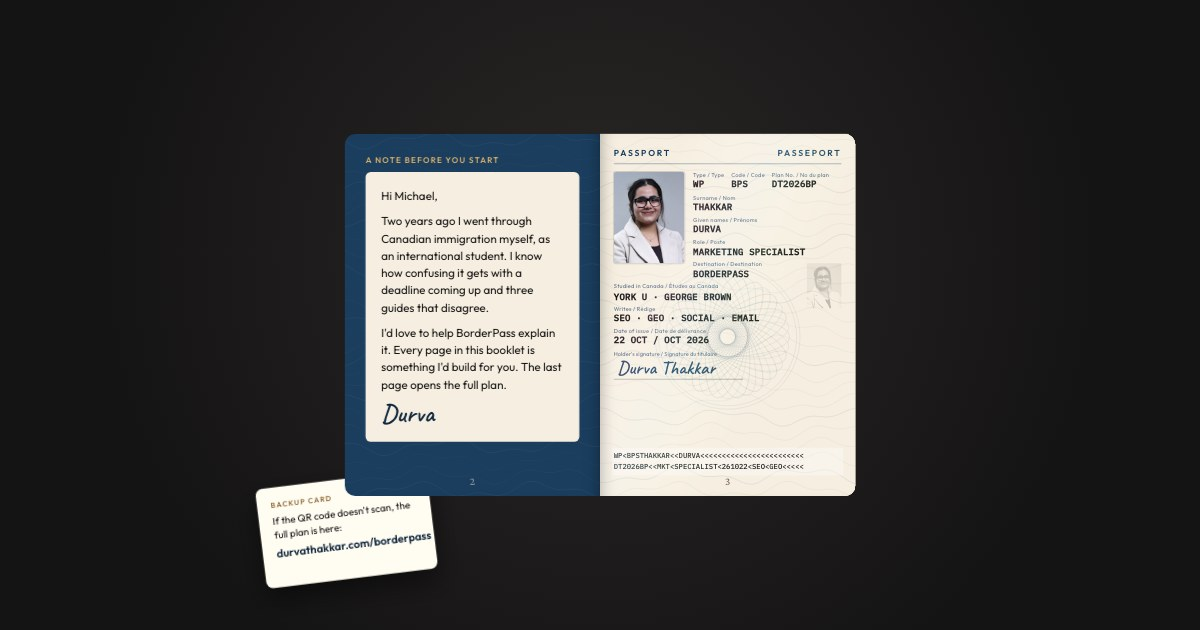
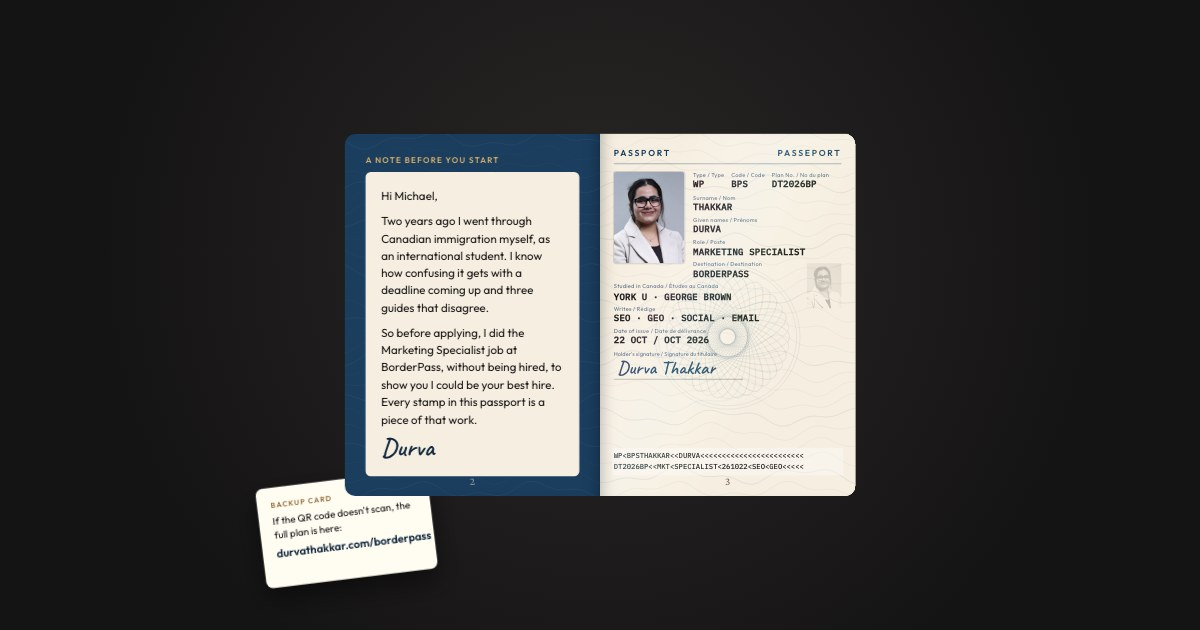
BorderPass passport: value-led arrival page, Limina-style note, last page invites a look at the first 90 days

Changed region(s): [[0.2775, 0.5127, 0.4933, 0.7841]]

diff --git a/borderpass/passport/index.html b/borderpass/passport/index.html
@@ -9,13 +9,13 @@
 <meta property="og:description" content="Open the envelope, flip the pages, collect the stamps. By Durva Thakkar.">
 <meta property="og:type" content="website">
 <meta property="og:url" content="https://durvathakkar.com/borderpass/passport/">
-<meta property="og:image" content="https://durvathakkar.com/borderpass/passport/share.jpg?v=3">
+<meta property="og:image" content="https://durvathakkar.com/borderpass/passport/share.jpg?v=4">
 <meta property="og:image:width" content="1200">
 <meta property="og:image:height" content="630">
 <meta name="twitter:card" content="summary_large_image">
 <meta name="twitter:title" content="A work plan for BorderPass, in a passport">
 <meta name="twitter:description" content="Open the envelope, flip the pages, collect the stamps. By Durva Thakkar.">
-<meta name="twitter:image" content="https://durvathakkar.com/borderpass/passport/share.jpg?v=3">
+<meta name="twitter:image" content="https://durvathakkar.com/borderpass/passport/share.jpg?v=4">
 <meta name="robots" content="noindex">
 <link rel="preconnect" href="https://fonts.googleapis.com"><link rel="preconnect" href="https://fonts.gstatic.com" crossorigin>
 <link href="https://fonts.googleapis.com/css2?family=Crimson+Pro:ital,wght@0,400;0,500;0,600;1,400&family=Outfit:wght@400;500;600;700&family=Caveat:wght@600&family=IBM+Plex+Mono:wght@500&display=swap" rel="stylesheet">
@@ -109,13 +109,13 @@ h3.pt{font:500 23px "Crimson Pro";line-height:1.1;margin:4px 0 12px}
 .st.oval{width:200px;height:110px;border-radius:50%}
 .st.tick{width:150px;height:118px;border-radius:22px}
 .ink{filter:url(#rough)}
-.appr .big{position:absolute;left:18px;right:18px;top:80px;height:112px;display:flex;flex-direction:column;align-items:center;justify-content:center;border:4px double var(--green);color:var(--green);border-radius:8px;opacity:0;transform:scale(2.4) rotate(-7deg);transition:transform .3s cubic-bezier(.3,1.6,.5,1),opacity .15s;mix-blend-mode:multiply}
+.appr .big{position:absolute;left:22px;right:22px;top:70px;height:96px;display:flex;flex-direction:column;align-items:center;justify-content:center;border:4px double var(--green);color:var(--green);border-radius:8px;opacity:0;transform:scale(2.4) rotate(-7deg);transition:transform .3s cubic-bezier(.3,1.6,.5,1),opacity .15s;mix-blend-mode:multiply}
 .appr.stamped .big{opacity:.92;transform:scale(1) rotate(-7deg)}
-.appr .big b{font:700 30px "Outfit";letter-spacing:.12em}
+.appr .big b{font:700 26px "Outfit";letter-spacing:.12em}
 .appr .big span{font:600 10px "Outfit";letter-spacing:.2em}
-.appr .qrw{position:absolute;left:20px;right:20px;bottom:36px;display:flex;gap:12px;align-items:center;opacity:0;transition:opacity .6s .5s}
+.appr .qrw{position:absolute;left:20px;right:20px;bottom:30px;display:flex;gap:12px;align-items:center;opacity:0;transition:opacity .6s .5s}
 .appr.stamped .qrw{opacity:1}
-.appr .qr{width:96px;height:96px;background:#fff;padding:7px;border-radius:6px;flex-shrink:0}
+.appr .qr{width:86px;height:86px;background:#fff;padding:7px;border-radius:6px;flex-shrink:0}
 .appr .qr svg{width:100%;height:100%;display:block}
 .appr .qrw>div:last-child{min-width:0;flex:1}.appr .qrw p{font-size:11.5px;line-height:1.4}
 .appr .url{font:600 11.5px "Outfit";color:var(--navy);text-decoration:underline;text-underline-offset:3px;position:relative;cursor:pointer}
@@ -206,6 +206,7 @@ body.share .top,body.share .ctrl,body.share .hint{display:none}
 .env .trk .no{font:500 9px "IBM Plex Mono",monospace;letter-spacing:.12em;text-align:center}
 .env .win .cv span{margin-top:6px}
 .env .addr-only{position:absolute;left:270px;top:352px;z-index:6;font:700 8.5px "Outfit";letter-spacing:.16em;color:#b3262e;opacity:.85}
+.appr .fin{position:absolute!important;left:20px;right:20px;top:190px;font-size:11.5px;line-height:1.45;opacity:0;transition:opacity .6s .4s}.appr.stamped .fin{opacity:1}
 </style>
 </head>
 <body>
@@ -231,14 +232,13 @@ body.share .top,body.share .ctrl,body.share .hint{display:none}
     <div class="leaf" data-i="0">
       <div class="face fr cover"><div class="cv-top">BORDERPASS</div><div class="cv-top2">MARKETING</div><svg class="emb" viewBox="0 0 120 120" width="150" height="150"><circle cx="60" cy="60" r="30" fill="none" stroke="#d3ac6a" stroke-width="1.6"/><ellipse cx="60" cy="60" rx="10" ry="30" fill="none" stroke="#d3ac6a" stroke-width="1"/><ellipse cx="60" cy="60" rx="20" ry="30" fill="none" stroke="#d3ac6a" stroke-width="1"/><line x1="60" y1="30" x2="60" y2="90" stroke="#d3ac6a" stroke-width="1"/><line x1="34" y1="45" x2="86" y2="45" stroke="#d3ac6a" stroke-width="1"/><line x1="30" y1="60" x2="90" y2="60" stroke="#d3ac6a" stroke-width="1"/><line x1="34" y1="75" x2="86" y2="75" stroke="#d3ac6a" stroke-width="1"/><ellipse cx="45.6" cy="99.5" rx="3.2" ry="7" transform="rotate(20 45.6 99.5)" fill="#d3ac6a"/><ellipse cx="34.7" cy="93.5" rx="3.2" ry="7" transform="rotate(37 34.7 93.5)" fill="#d3ac6a"/><ellipse cx="26.0" cy="84.7" rx="3.2" ry="7" transform="rotate(54 26.0 84.7)" fill="#d3ac6a"/><ellipse cx="20.3" cy="73.7" rx="3.2" ry="7" transform="rotate(71 20.3 73.7)" fill="#d3ac6a"/><ellipse cx="18.0" cy="61.5" rx="3.2" ry="7" transform="rotate(88 18.0 61.5)" fill="#d3ac6a"/><ellipse cx="19.4" cy="49.1" rx="3.2" ry="7" transform="rotate(105 19.4 49.1)" fill="#d3ac6a"/><ellipse cx="24.4" cy="37.7" rx="3.2" ry="7" transform="rotate(122 24.4 37.7)" fill="#d3ac6a"/><ellipse cx="32.4" cy="28.3" rx="3.2" ry="7" transform="rotate(139 32.4 28.3)" fill="#d3ac6a"/><ellipse cx="42.9" cy="21.6" rx="3.2" ry="7" transform="rotate(156 42.9 21.6)" fill="#d3ac6a"/><ellipse cx="74.4" cy="99.5" rx="3.2" ry="7" transform="rotate(160 74.4 99.5)" fill="#d3ac6a"/><ellipse cx="85.3" cy="93.5" rx="3.2" ry="7" transform="rotate(143 85.3 93.5)" fill="#d3ac6a"/><ellipse cx="94.0" cy="84.7" rx="3.2" ry="7" transform="rotate(126 94.0 84.7)" fill="#d3ac6a"/><ellipse cx="99.7" cy="73.7" rx="3.2" ry="7" transform="rotate(109 99.7 73.7)" fill="#d3ac6a"/><ellipse cx="102.0" cy="61.5" rx="3.2" ry="7" transform="rotate(92 102.0 61.5)" fill="#d3ac6a"/><ellipse cx="100.6" cy="49.1" rx="3.2" ry="7" transform="rotate(75 100.6 49.1)" fill="#d3ac6a"/><ellipse cx="95.6" cy="37.7" rx="3.2" ry="7" transform="rotate(58 95.6 37.7)" fill="#d3ac6a"/><ellipse cx="87.6" cy="28.3" rx="3.2" ry="7" transform="rotate(41 87.6 28.3)" fill="#d3ac6a"/><ellipse cx="77.1" cy="21.6" rx="3.2" ry="7" transform="rotate(24 77.1 21.6)" fill="#d3ac6a"/><path d="M46 108 Q60 100 74 108" fill="none" stroke="#d3ac6a" stroke-width="1.6"/><polygon points="60.0,9.0 61.8,13.6 66.7,13.8 62.9,16.9 64.1,21.7 60.0,19.0 55.9,21.7 57.1,16.9 53.3,13.8 58.2,13.6" fill="#d3ac6a"/></svg><div class="cv-pp">PASSPORT</div><div class="cv-pp2">PASSEPORT</div><div class="chip"></div></div>
       <div class="face bk pg inside"><div class="k" style="color:var(--gold)">A note before you start</div>
-        <div class="note"><p>Hi Michael,</p><p>Two years ago I went through Canadian immigration myself, as an international student. I know how confusing it gets with a deadline coming up and three guides that disagree.</p><p>I'd love to help BorderPass explain it. Every page in this booklet is something I'd build for you. The last page opens the full plan.</p><div class="sig">Durva</div></div>
+        <div class="note"><p>Hi Michael,</p><p>Two years ago I went through Canadian immigration myself, as an international student. I know how confusing it gets with a deadline coming up and three guides that disagree.</p><p>So before applying, I did the Marketing Specialist job at BorderPass, without being hired, to show you I could be your best hire. Every stamp in this passport is a piece of that work.</p><div class="sig">Durva</div></div>
         <div class="pn" style="color:rgba(255,252,242,.45)">2</div></div>
     </div>
     <!-- leaf 1: identity / findings -->
     <div class="leaf" data-i="1">
       <div class="face fr pg data"><div class="dh"><b>PASSPORT</b><b>PASSEPORT</b></div><div class="dg"><img class="ph" src="/borderpass/passport/photo.jpg" alt="Durva Thakkar"><div><div class="r3"><div class="fd"><i>Type / Type</i><b>WP</b></div><div class="fd"><i>Code / Code</i><b>BPS</b></div><div class="fd"><i>Plan No. / No du plan</i><b>DT2026BP</b></div></div><div class="fd"><i>Surname / Nom</i><b>Thakkar</b></div><div class="fd"><i>Given names / Prénoms</i><b>Durva</b></div><div class="fd"><i>Role / Poste</i><b>Marketing Specialist</b></div><div class="fd"><i>Destination / Destination</i><b>BorderPass</b></div></div></div><div class="fd"><i>Studied in Canada / Études au Canada</i><b>York U · George Brown</b></div><div class="fd"><i>Writes / Rédige</i><b>SEO · GEO · Social · Email</b></div><div class="fd"><i>Date of issue / Date de délivrance</i><b>22 Oct / Oct 2026</b></div><div class="sgl"><i style="display:block;font:500 6.6px Outfit;color:#6b7d8f">Holder's signature / Signature du titulaire</i><div class="sigx">Durva Thakkar</div></div><img class="ghost" src="/borderpass/passport/photo.jpg" alt=""><div class="mrz">WP&lt;BPSTHAKKAR&lt;&lt;DURVA&lt;&lt;&lt;&lt;&lt;&lt;&lt;&lt;&lt;&lt;&lt;&lt;&lt;&lt;&lt;&lt;&lt;&lt;&lt;&lt;&lt;&lt;&lt;&lt;<br>DT2026BP&lt;&lt;MKT&lt;SPECIALIST&lt;261022&lt;SEO&lt;GEO&lt;&lt;&lt;&lt;&lt;</div><div class="holo"></div><div class="pn">3</div></div>
-      <div class="face bk pg"><div class="k">Entry inspection</div><h3 class="pt">Before planning anything, I read borderpass.ai</h3>
-        <ul class="list"><li><b>211 blog posts and 72 news posts</b> already live: years of social content waiting to be repurposed.</li><li><b>Every page shares one preview image</b>, so a PGWP link in a group chat looks like every other link.</li><li><b>Page text loads only after JavaScript</b>, so many AI search tools see a title and little else.</li><li><b>No newsletter</b> for people who aren't ready to apply yet.</li></ul>
+      <div class="face bk pg"><div class="k">Arrival</div><h3 class="pt">Ready from day one</h3><ul class="list"><li><b>211 blog posts and 72 news posts</b> turned into months of social content.</li><li><b>A share card for every key page</b>, so a PGWP link looks like PGWP in a student group chat.</li><li><b>Key pages easy for AI search</b> to read and quote.</li><li><b>A monthly newsletter</b> for people who aren't ready to apply yet.</li></ul>
         <div class="pn">4</div></div>
     </div>
     <!-- leaf 2: visas 01 / 02 -->
@@ -272,7 +272,7 @@ body.share .top,body.share .ctrl,body.share .hint{display:none}
     <div class="leaf" data-i="5">
       <div class="face fr pg appr"><div class="hd" style="text-align:center"><b style="font:500 20px 'Crimson Pro';letter-spacing:.42em;color:#1b3e5f;opacity:.75">VISAS</b></div><div style="text-align:center;font:600 9.5px Outfit;letter-spacing:.2em;color:var(--bronze);margin-top:2px">FINAL ENTRY · APPROVED</div>
         <div class="big ink"><span>BORDERPASS · MARKETING</span><b>APPROVED</b><span>ENTRY TO THE FULL PLAN</span></div>
-        <div class="qrw"><div class="qr"><svg xmlns="http://www.w3.org/2000/svg" viewBox="0 0 33 33" shape-rendering="crispEdges" class="segno"><path class="qrline" stroke="#10273d" d="M0 0.5h7m1 0h2m1 0h1m2 0h5m3 0h2m2 0h7m-33 1h1m5 0h1m2 0h1m2 0h1m4 0h1m1 0h3m4 0h1m5 0h1m-33 1h1m1 0h3m1 0h1m4 0h1m1 0h1m1 0h1m3 0h3m1 0h1m2 0h1m1 0h3m1 0h1m-33 1h1m1 0h3m1 0h1m1 0h2m1 0h2m1 0h2m1 0h4m2 0h2m1 0h1m1 0h3m1 0h1m-33 1h1m1 0h3m1 0h1m1 0h1m1 0h1m1 0h3m3 0h3m1 0h2m2 0h1m1 0h3m1 0h1m-33 1h1m5 0h1m1 0h4m1 0h1m2 0h4m2 0h1m3 0h1m5 0h1m-33 1h7m1 0h1m1 0h1m1 0h1m1 0h1m1 0h1m1 0h1m1 0h1m1 0h1m1 0h1m1 0h7m-25 1h1m1 0h3m1 0h5m2 0h2m-23 1h1m3 0h1m1 0h4m2 0h1m4 0h1m1 0h4m1 0h6m2 0h1m-33 1h1m2 0h2m2 0h3m1 0h3m1 0h2m1 0h1m1 0h1m2 0h1m1 0h1m3 0h2m-29 1h1m2 0h3m1 0h3m3 0h3m3 0h3m5 0h1m1 0h1m-32 1h1m2 0h2m6 0h1m2 0h1m1 0h4m1 0h2m1 0h1m1 0h1m4 0h1m-32 1h1m1 0h2m2 0h1m1 0h1m2 0h4m3 0h5m3 0h4m1 0h2m-32 1h1m1 0h2m3 0h1m2 0h2m3 0h2m1 0h1m1 0h1m1 0h1m1 0h1m1 0h1m2 0h1m-31 1h1m1 0h1m2 0h2m2 0h4m1 0h1m1 0h1m1 0h2m1 0h6m3 0h2m-31 1h1m1 0h1m3 0h3m2 0h1m4 0h7m1 0h4m-29 1h2m1 0h1m2 0h3m1 0h1m1 0h2m1 0h3m3 0h2m3 0h1m1 0h2m1 0h1m-32 1h2m7 0h1m1 0h1m1 0h1m1 0h4m2 0h1m1 0h1m1 0h1m3 0h3m-31 1h3m2 0h3m1 0h4m1 0h1m2 0h1m1 0h1m2 0h1m3 0h1m1 0h1m1 0h1m-31 1h1m2 0h2m1 0h3m1 0h1m1 0h2m6 0h1m3 0h3m-28 1h1m3 0h1m1 0h1m1 0h2m1 0h1m1 0h4m2 0h4m1 0h6m1 0h2m-33 1h1m3 0h2m5 0h1m5 0h4m1 0h2m3 0h1m2 0h2m-30 1h3m1 0h4m2 0h1m2 0h1m1 0h2m2 0h3m1 0h1m4 0h2m-28 1h2m1 0h4m4 0h4m2 0h1m1 0h1m5 0h1m1 0h1m-32 1h2m1 0h2m1 0h4m2 0h1m1 0h1m2 0h6m1 0h5m2 0h2m-25 1h1m2 0h2m1 0h3m1 0h1m4 0h2m3 0h1m1 0h1m-31 1h7m1 0h6m1 0h3m2 0h1m1 0h1m1 0h1m1 0h1m1 0h2m1 0h1m-32 1h1m5 0h1m2 0h6m1 0h4m1 0h2m1 0h1m3 0h1m3 0h1m-33 1h1m1 0h3m1 0h1m1 0h1m3 0h3m3 0h1m1 0h3m1 0h6m1 0h2m-33 1h1m1 0h3m1 0h1m2 0h2m5 0h2m1 0h6m1 0h4m-30 1h1m1 0h3m1 0h1m4 0h1m1 0h1m2 0h1m1 0h1m3 0h1m2 0h4m1 0h1m-31 1h1m5 0h1m2 0h1m1 0h1m5 0h2m1 0h2m2 0h3m2 0h1m-30 1h7m1 0h1m1 0h2m3 0h1m1 0h1m1 0h6m1 0h1m2 0h1m2 0h1"/></svg></div><div><p>Scan for the full plan: findings, content, calendar, AI, SEO, community, paid and the first 90 days.</p><p style="margin-top:6px"><span class="url" id="url">durvathakkar.com/borderpass<span class="pop">Open it ↗</span></span></p><a class="go" href="/borderpass/">Open the full plan</a></div></div>
+        <p class="fin">To show what I can do, I've already done the work: content, a social calendar, an AI workflow, SEO, community and paid campaigns. My first 90 days are in there too. Have a look, and I'd love to take it forward from there.</p><div class="qrw"><div class="qr"><svg xmlns="http://www.w3.org/2000/svg" viewBox="0 0 33 33" shape-rendering="crispEdges" class="segno"><path class="qrline" stroke="#10273d" d="M0 0.5h7m1 0h2m1 0h1m2 0h5m3 0h2m2 0h7m-33 1h1m5 0h1m2 0h1m2 0h1m4 0h1m1 0h3m4 0h1m5 0h1m-33 1h1m1 0h3m1 0h1m4 0h1m1 0h1m1 0h1m3 0h3m1 0h1m2 0h1m1 0h3m1 0h1m-33 1h1m1 0h3m1 0h1m1 0h2m1 0h2m1 0h2m1 0h4m2 0h2m1 0h1m1 0h3m1 0h1m-33 1h1m1 0h3m1 0h1m1 0h1m1 0h1m1 0h3m3 0h3m1 0h2m2 0h1m1 0h3m1 0h1m-33 1h1m5 0h1m1 0h4m1 0h1m2 0h4m2 0h1m3 0h1m5 0h1m-33 1h7m1 0h1m1 0h1m1 0h1m1 0h1m1 0h1m1 0h1m1 0h1m1 0h1m1 0h1m1 0h7m-25 1h1m1 0h3m1 0h5m2 0h2m-23 1h1m3 0h1m1 0h4m2 0h1m4 0h1m1 0h4m1 0h6m2 0h1m-33 1h1m2 0h2m2 0h3m1 0h3m1 0h2m1 0h1m1 0h1m2 0h1m1 0h1m3 0h2m-29 1h1m2 0h3m1 0h3m3 0h3m3 0h3m5 0h1m1 0h1m-32 1h1m2 0h2m6 0h1m2 0h1m1 0h4m1 0h2m1 0h1m1 0h1m4 0h1m-32 1h1m1 0h2m2 0h1m1 0h1m2 0h4m3 0h5m3 0h4m1 0h2m-32 1h1m1 0h2m3 0h1m2 0h2m3 0h2m1 0h1m1 0h1m1 0h1m1 0h1m1 0h1m2 0h1m-31 1h1m1 0h1m2 0h2m2 0h4m1 0h1m1 0h1m1 0h2m1 0h6m3 0h2m-31 1h1m1 0h1m3 0h3m2 0h1m4 0h7m1 0h4m-29 1h2m1 0h1m2 0h3m1 0h1m1 0h2m1 0h3m3 0h2m3 0h1m1 0h2m1 0h1m-32 1h2m7 0h1m1 0h1m1 0h1m1 0h4m2 0h1m1 0h1m1 0h1m3 0h3m-31 1h3m2 0h3m1 0h4m1 0h1m2 0h1m1 0h1m2 0h1m3 0h1m1 0h1m1 0h1m-31 1h1m2 0h2m1 0h3m1 0h1m1 0h2m6 0h1m3 0h3m-28 1h1m3 0h1m1 0h1m1 0h2m1 0h1m1 0h4m2 0h4m1 0h6m1 0h2m-33 1h1m3 0h2m5 0h1m5 0h4m1 0h2m3 0h1m2 0h2m-30 1h3m1 0h4m2 0h1m2 0h1m1 0h2m2 0h3m1 0h1m4 0h2m-28 1h2m1 0h4m4 0h4m2 0h1m1 0h1m5 0h1m1 0h1m-32 1h2m1 0h2m1 0h4m2 0h1m1 0h1m2 0h6m1 0h5m2 0h2m-25 1h1m2 0h2m1 0h3m1 0h1m4 0h2m3 0h1m1 0h1m-31 1h7m1 0h6m1 0h3m2 0h1m1 0h1m1 0h1m1 0h1m1 0h2m1 0h1m-32 1h1m5 0h1m2 0h6m1 0h4m1 0h2m1 0h1m3 0h1m3 0h1m-33 1h1m1 0h3m1 0h1m1 0h1m3 0h3m3 0h1m1 0h3m1 0h6m1 0h2m-33 1h1m1 0h3m1 0h1m2 0h2m5 0h2m1 0h6m1 0h4m-30 1h1m1 0h3m1 0h1m4 0h1m1 0h1m2 0h1m1 0h1m3 0h1m2 0h4m1 0h1m-31 1h1m5 0h1m2 0h1m1 0h1m5 0h2m1 0h2m2 0h3m2 0h1m-30 1h7m1 0h1m1 0h2m3 0h1m1 0h1m1 0h6m1 0h1m2 0h1m2 0h1"/></svg></div><div><p style="font-size:11px;color:#6d655b">Scan or visit:</p><p style="margin-top:2px"><span class="url" id="url">durvathakkar.com/borderpass<span class="pop">Open it ↗</span></span></p><a class="go" href="/borderpass/">Open the full plan</a></div></div>
         <div class="pn">11</div></div>
       <div class="face bk backc">If found, please return to the BorderPass marketing team.</div>
     </div>
